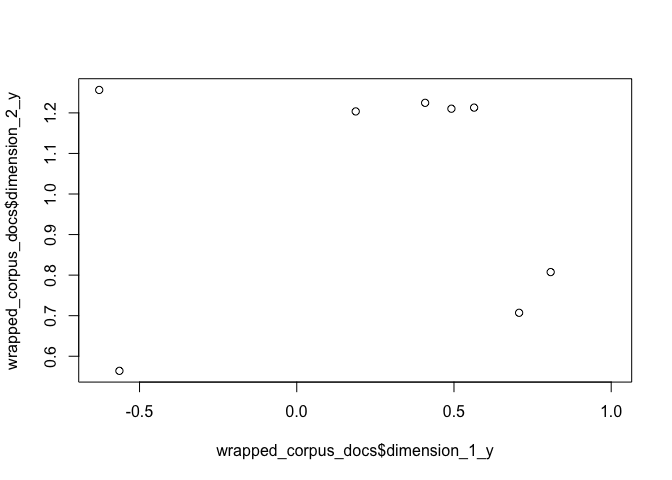
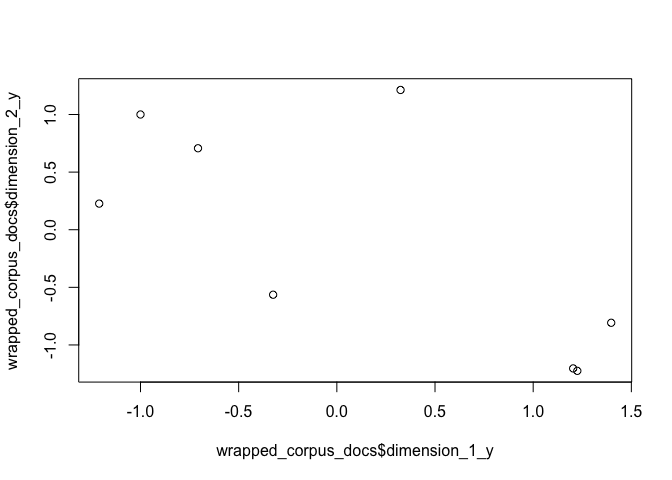
delete temp file function added

diff --git a/README.md b/README.md
@@ -9,8 +9,6 @@ experimental](https://img.shields.io/badge/lifecycle-experimental-orange.svg)](h
 status](https://travis-ci.org/news-r/gensimr.svg?branch=master)](https://travis-ci.org/news-r/gensimr)
 <!-- badges: end -->
 
-# gensimr
-
 ![gensim official
 logo](https://radimrehurek.com/gensim/_static/images/gensim.png)
 
@@ -103,14 +101,17 @@ dictionary$doc2bow(docs[[1]])
 corpus_bow <- doc2bow(dictionary, docs)
 ```
 
-Then convert to matrix market format and serialise, the function returns
-the path to the file (this is saved on disk for efficiency), if no path
-is passed then a temp file is created.
+Then serialise to matrix market format, the function returns the path to
+the file (this is saved on disk for efficiency), if no path is passed
+then a temp file is created. Here we set `auto_delete` to `FALSE`
+otherwise the corpus is deleted after first use. Note this means you
+should manually delete it with `delete_mmcorpus`.
 
 ``` r
-(corpus_mm <- mmcorpus_serialize(corpus_bow))
-#> ℹ Path: /var/folders/n9/ys9t1h091jq80g4hww24v8g0n7v578/T//RtmpGeGt5K/file1a938b20793.mm 
+(corpus_mm <- serialize_mmcorpus(corpus_bow, auto_delete = FALSE))
+#> ℹ Path: /var/folders/n9/ys9t1h091jq80g4hww24v8g0n7v578/T//RtmprGjq2r/file28813adc9934.mm 
 #>  ✔ Temp file
+#>  ✖ Delete after use
 ```
 
 Then initialise a model, we’re going to use a Latent Similarity Indexing
@@ -142,7 +143,7 @@ Note that we use the transformed corpus.
 lsi <- model_lsi(corpus_transformed, id2word = dictionary)
 #> ⚠ Low number of topics
 lsi$print_topics()
-#> [(0, '0.703*"trees" + 0.538*"graph" + 0.402*"minors" + 0.187*"survey" + 0.061*"system" + 0.060*"time" + 0.060*"response" + 0.058*"user" + 0.049*"computer" + 0.035*"interface"'), (1, '-0.460*"system" + -0.373*"user" + -0.332*"eps" + -0.328*"interface" + -0.320*"time" + -0.320*"response" + -0.293*"computer" + -0.280*"human" + -0.171*"survey" + 0.161*"trees"')]
+#> [(0, '0.703*"trees" + 0.538*"graph" + 0.402*"minors" + 0.187*"survey" + 0.061*"system" + 0.060*"response" + 0.060*"time" + 0.058*"user" + 0.049*"computer" + 0.035*"interface"'), (1, '0.460*"system" + 0.373*"user" + 0.332*"eps" + 0.328*"interface" + 0.320*"response" + 0.320*"time" + 0.293*"computer" + 0.280*"human" + 0.171*"survey" + -0.161*"trees"')]
 ```
 
 We can then wrap the model around the corpus to extract further
@@ -155,15 +156,15 @@ wrapped_corpus <- wrap(lsi, corpus_transformed)
 #> # A tibble: 9 x 4
 #>   dimension_1_x dimension_1_y dimension_2_x dimension_2_y
 #>           <dbl>         <dbl>         <dbl>         <dbl>
-#> 1             0        0.0660             1       -0.520 
-#> 2             0        0.197              1       -0.761 
-#> 3             0        0.0899             1       -0.724 
-#> 4             0        0.0759             1       -0.632 
-#> 5             0        0.102              1       -0.574 
-#> 6             0        0.703              1        0.161 
-#> 7             0        0.877              1        0.168 
-#> 8             0        0.910              1        0.141 
-#> 9             0        0.617              1       -0.0539
+#> 1             0        0.0660             1        0.520 
+#> 2             0        0.197              1        0.761 
+#> 3             0        0.0899             1        0.724 
+#> 4             0        0.0759             1        0.632 
+#> 5             0        0.102              1        0.574 
+#> 6             0        0.703              1       -0.161 
+#> 7             0        0.877              1       -0.168 
+#> 8             0        0.910              1       -0.141 
+#> 9             0        0.617              1        0.0539
 plot(wrapped_corpus_docs$dimension_1_y, wrapped_corpus_docs$dimension_2_y)
 ```
 
@@ -189,7 +190,6 @@ plot(wrapped_corpus_docs$dimension_1_y, wrapped_corpus_docs$dimension_2_y)
 Note that we use the original, non-transformed corpus.
 
 ``` r
-corpus_mm <- mmcorpus_serialize(corpus_bow)
 lda <- model_lda(corpus_mm, id2word = dictionary)
 #> ⚠ Low number of topics
 lda_topics <- lda$get_document_topics(corpus_bow)
@@ -202,47 +202,46 @@ plot(wrapped_corpus_docs$dimension_1_y, wrapped_corpus_docs$dimension_2_y)
 ### Hierarchical Dirichlet Process
 
 ``` r
-corpus_mm <- mmcorpus_serialize(corpus_bow)
 hdp <- model_hdp(corpus_mm, id2word = dictionary)
 reticulate::py_to_r(hdp$show_topic(topic_id = 1L, topn = 5L))
 #> [[1]]
 #> [[1]][[1]]
-#> [1] "computer"
+#> [1] "user"
 #> 
 #> [[1]][[2]]
-#> [1] 0.2173036
+#> [1] 0.306301
 #> 
 #> 
 #> [[2]]
 #> [[2]][[1]]
-#> [1] "response"
+#> [1] "trees"
 #> 
 #> [[2]][[2]]
-#> [1] 0.1365744
+#> [1] 0.1372399
 #> 
 #> 
 #> [[3]]
 #> [[3]][[1]]
-#> [1] "system"
+#> [1] "computer"
 #> 
 #> [[3]][[2]]
-#> [1] 0.1095201
+#> [1] 0.098577
 #> 
 #> 
 #> [[4]]
 #> [[4]][[1]]
-#> [1] "user"
+#> [1] "system"
 #> 
 #> [[4]][[2]]
-#> [1] 0.1062947
+#> [1] 0.09821121
 #> 
 #> 
 #> [[5]]
 #> [[5]][[1]]
-#> [1] "trees"
+#> [1] "minors"
 #> 
 #> [[5]][[2]]
-#> [1] 0.09769184
+#> [1] 0.08178417
 ```
 
 ## Document Similarity
@@ -251,7 +250,6 @@ Reproducing [tutorial on
 similarity](https://radimrehurek.com/gensim/tut3.html#similarity-interface).
 
 ``` r
-corpus_mm <- mmcorpus_serialize(corpus_bow)
 mm <- read_serialized_mmcorpus(corpus_mm)
 
 new_document <- "A human and computer interaction"
@@ -281,13 +279,8 @@ get_similarity(sims)
 #> 9     5 -0.0880
 ```
 
-> The thing to note here is that documents no. 2 (“The EPS user
-> interface management system”) and 4 (“Relation of user perceived
-> response time to error measurement”) would never be returned by a
-> standard boolean fulltext search, because they do not share any common
-> words with “Human computer interaction”. However, after applying LSI,
-> we can observe that both of them received quite high similarity scores
-> (no. 2 is actually the most similar\!), which corresponds better to
-> our intuition of them sharing a “computer-human” related topic with
-> the query. In fact, this semantic generalization is the reason why we
-> apply transformations and do topic modelling in the first place.
+Clean up, delete the corpus.
+
+``` r
+delete_mmcorpus(corpus_mm)
+```
